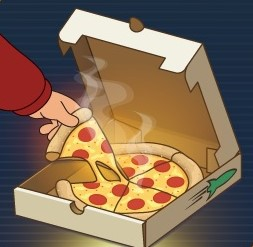
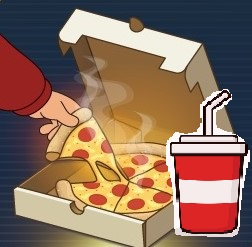
add content to the menu and about tabs

diff --git a/src/style.css b/src/style.css
@@ -79,10 +79,13 @@ nav {
   opacity: 90%;
 }
 
-.logo-wrapper {
+.content-wrapper {
+  display: flex;
+  flex-direction: column;
   width: 535px;
   height: 535px;
   background-color: black;
+  color: white;
   border-radius: 12px;
   opacity: 90%;
   display: flex;
@@ -90,4 +93,37 @@ nav {
   align-items: center;
   text-align: center;
   margin-bottom: 10em;
+}
+
+.pizza {
+  width: 420px;
+  height: auto;
+}
+
+.fry-image {
+  width: 450px;
+  height: auto;
+}
+
+.top-text, .bottom-text {
+  font-family: 'Futurama';
+  padding: 6px;
+  font-size: 22px;
+}
+
+.top-text {
+  align-self: flex-start;
+  margin-left: 50px;
+}
+
+.bottom-text {
+  align-self: flex-end;
+  margin-right: 50px;
+}
+
+.fry-text {
+  font-family: 'Futurama';
+  font-size: 32px;
+  text-align: center;
+  padding: 6px;
 }

diff --git a/src/menu.js b/src/menu.js
@@ -1,0 +1,24 @@
+import Pizza from './images/pizza.jpg';
+
+export default function showMenu() {
+  const contentDiv = document.querySelector('#content');
+  const menuDiv = document.createElement('div');
+  menuDiv.classList.add('content-wrapper');
+
+  const topText = document.createElement('div');
+  const bottomText = document.createElement('div');
+  topText.classList.add('top-text');
+  bottomText.classList.add('bottom-text')
+
+  topText.textContent = 'Cheese Pizza and a Large Soda';
+  bottomText.textContent = '$10.77';
+
+  const pizzaPic = new Image();
+  pizzaPic.src = Pizza;
+  pizzaPic.classList.add('pizza');
+
+  menuDiv.appendChild(topText);
+  menuDiv.appendChild(pizzaPic);
+  menuDiv.appendChild(bottomText);
+  contentDiv.appendChild(menuDiv);
+}

diff --git a/src/about.js b/src/about.js
@@ -1,0 +1,24 @@
+import Fry from './images/PIZZAGOINOUT.jpg';
+
+export default function showAbout() {
+  const contentDiv = document.querySelector('#content');
+  const aboutDiv = document.createElement('div');
+  aboutDiv.classList.add('content-wrapper');
+
+  const topText = document.createElement('div');
+  const bottomText = document.createElement('div');
+  topText.classList.add('fry-text');
+  bottomText.classList.add('fry-text');
+
+  topText.textContent = 'FRY! PIZZA GOIN\' OUT!';
+  bottomText.textContent = 'COME ONNN!!!';
+
+  const fry = new Image();
+  fry.src = Fry;
+  fry.classList.add('fry-image');
+
+  aboutDiv.appendChild(topText);
+  aboutDiv.appendChild(fry);
+  aboutDiv.appendChild(bottomText);
+  contentDiv.appendChild(aboutDiv);
+}

diff --git a/src/index.js b/src/index.js
@@ -1,5 +1,7 @@
 import './style.css';
 import showHome from './home.js';
+import showMenu from './menu.js';
+import showAbout from './about.js';
 
 showHome();
 switchTabs();
@@ -30,8 +32,10 @@ function buttonEvents(e){
     showHome();
   } else if(e.target.value === 'menu') {
     menuButton.classList.add('clicked-button');
+    showMenu();
   } else if(e.target.value === 'about') {
-    aboutButton.classList.add('clicked-button'); 
+    aboutButton.classList.add('clicked-button');
+    showAbout(); 
   }
 }
 

diff --git a/src/home.js b/src/home.js
@@ -1,9 +1,9 @@
 import Logo from './images/logo.jpg'
 
-export default function() {
+export default function showHome() {
   const contentDiv = document.querySelector('#content');
   const homeDiv = document.createElement('div');
-  homeDiv.classList.add('logo-wrapper');
+  homeDiv.classList.add('content-wrapper');
   
   const panucciLogo = new Image();
   panucciLogo.src = Logo; 

diff --git a/src/index.html b/src/index.html
@@ -14,12 +14,6 @@
         <button id="about-button" value="about">ABOUT</button>
       </nav>
     </header>
-    <div id="content">
-      <!--
-      <div class="logo-wrapper">
-        <img src="/images/logo.jpg" alt="logo image" class="logo">
-      </div> 
-      -->
-    </div>
+    <div id="content"></div>
   </body>
 </html>
